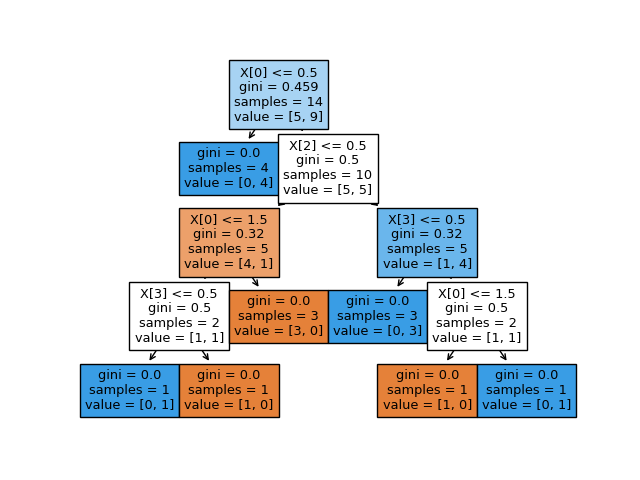
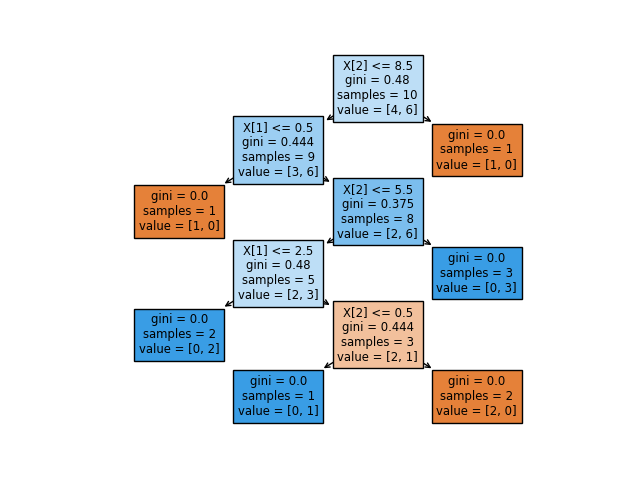
Se ha implementado la clasificación con label encoder

diff --git a/pages/Clasificador_de_Arboles_de_Decision.py b/pages/Clasificador_de_Arboles_de_Decision.py
@@ -1,4 +1,5 @@
 # Importamos librerías a utilizar en esta aplicación
+from click import confirm
 from matplotlib.pyplot import text
 import streamlit as st
 import pandas as pd
@@ -21,7 +22,6 @@ from IPython.display import Image as PImage
 from subprocess import check_call
 
 ### Definimos las funciones que utilizaremos
-
 
 ## Función que obtiene el archivo e identifica la colección de datos a utilizar
 def procesar_datos():
@@ -56,70 +56,90 @@ def procesar_datos():
     cols_encoded = list()
     dot_code = ''
     if bandera:
-        resultado = st.selectbox('Seleccione la columna que será utilizada como el resultado', data.columns)
-        confirmar_resultado = st.button('Confirmar')
-        
+        name_last_column = str
+        for x in data:
+            name_last_column = str(x)
+
         # Si se presiona el botón de confirmación, se inicia el análisis
-        if confirmar_resultado:
-            col_resultado = np.asarray(data[resultado]).reshape(-1,1)
-            for x in data:
-                if str(resultado) != str(x):
-                    col = np.asarray(data[str(x)]).reshape(-1,1)
-                    cols_evaluar.append(col)
-            
-            # Creamos un label enconder
-            le = preprocessing.LabelEncoder()
-            
-            # Convertimos los strings de los arreglos en números
-            for i in range(len(cols_evaluar)):
-                cols_encoded.append(le.fit_transform(cols_evaluar[i]))
+        #if confirmar_resultado:
+        col_resultado = np.asarray(data[name_last_column]).reshape(-1,1)
+        for x in data:
+            if str(name_last_column) != str(x):
+                col = np.asarray(data[str(x)]).reshape(-1,1)
+                cols_evaluar.append(col)
+        
+        # Creamos un label enconder
+        le = preprocessing.LabelEncoder()
+        
+        # Convertimos los strings de los arreglos en números
+        for i in range(len(cols_evaluar)):
+            cols_encoded.append(le.fit_transform(cols_evaluar[i]))
 
-            resultado_encoded = le.fit_transform(col_resultado)
+        resultado_encoded = le.fit_transform(col_resultado)
 
-            # Combinamos los atributos en una lista de tuplas
-            tuples = []
-            for x in range(len(cols_encoded[0])):
-                fila = []
-                for i in range(len(cols_encoded)):
-                    fila.append(cols_encoded[i][x])
-                tuples.append(tuple(fila))
+        # Combinamos los atributos en una lista de tuplas
+        tuples = []
+        for x in range(len(cols_encoded[0])):
+            fila = []
+            for i in range(len(cols_encoded)):
+                fila.append(cols_encoded[i][x])
+            tuples.append(tuple(fila))
 
-            # Realizamos el modelo
-            clf = DecisionTreeClassifier().fit(tuples,resultado_encoded)
-            plot_tree(clf, filled=True)
-            plt.savefig('clasiArbol.png')
+        # Realizamos el modelo
+        clf = DecisionTreeClassifier().fit(tuples,resultado_encoded)
+        plot_tree(clf, filled=True)
+        plt.savefig('clasiArbol.png')
 
-            # exportar el modelo a archivo .dot
-            # with open(r"clasiArbol.dot", 'w') as f:
-            #    f = tree.export_graphviz(clf,
-            #                            out_file=f,
-            #                            max_depth = 7,
-            #                            impurity = True,
-            #                            #feature_names = list(tuples.drop(['top'], axis=1)),
-            #                            #class_names = ['No', 'N1 Billboard'],
-            #                            rounded = True,
-            #                            filled= True 
-            #                            )
-            # dot_code = f
-            
+        # exportar el modelo a archivo .dot
+        # with open(r"clasiArbol.dot", 'w') as f:
+        #    f = tree.export_graphviz(clf,
+        #                            out_file=f,
+        #                            max_depth = 7,
+        #                            impurity = True,
+        #                            #feature_names = list(tuples.drop(['top'], axis=1)),
+        #                            #class_names = ['No', 'N1 Billboard'],
+        #                            rounded = True,
+        #                            filled= True 
+        #                            )
+        # dot_code = f
+        
 
-            # Convertir el archivo .dot a png para poder visualizarlo
-            # check_call(['dot','-Tpng',r'clasiArbol.dot','-o',r'clasiArbol.png'])
-            # PImage("clasiArbol.png")
+        # Convertir el archivo .dot a png para poder visualizarlo
+        # check_call(['dot','-Tpng',r'clasiArbol.dot','-o',r'clasiArbol.png'])
+        # PImage("clasiArbol.png")
 
-            #for i in range(len(cols_evaluar)):
-            #    st.text(cols_evaluar[i])
+        #for i in range(len(cols_evaluar)):
+        #    st.text(cols_evaluar[i])
 
+        st.text('Realizar una predicción. Ingrese los datos necesarios para predecir:')
+        prediccion = st.text_input('Ingrese los datos códificados separados por coma (puede consultar la tabla)')
+        btn_predecir = st.button('Realizar Predicción')
+        
 
         with st.expander('Tabla de Datos'):
-            st.write(data)
-            if confirmar_resultado:
-                st.text(tuples)
+            col_tabla, col_encoded, col_res = st.columns(3)
+            with col_tabla:
+                st.text('Tabla')
+                st.write(data)
             
-        if confirmar_resultado:
-            with st.expander('Clasificador de Arboles de Decisión:'):
-                image = Image.open('clasiArbol.png')
-                st.image(image)
+            with col_encoded:
+                st.text('Datos Encoded')
+                st.dataframe(tuples)
+            
+            with col_res:
+                st.text('Resultado Encoded')
+                st.dataframe(resultado_encoded)
+        
+        with st.expander('Clasificador de Arboles de Decisión:'):
+            image = Image.open('clasiArbol.png')
+            st.image(image)
+
+        if btn_predecir:
+            st.text('La predicción para la entrada: ' + prediccion + ' es:')
+            prediction = [float(i) for i in prediccion.split(',')]
+            predicted = clf.predict([prediction])
+            st.text(predicted)
+
 
 
 ## Inicio de la ejecución

diff --git a/pages/Clasificador_Gaussiano.py b/pages/Clasificador_Gaussiano.py
@@ -1,9 +1,124 @@
 # Importamos librerías a utilizar en esta aplicación
-from matplotlib.pyplot import text
 import streamlit as st
 import pandas as pd
 import numpy as np
 import matplotlib.pyplot as plt
+from sklearn.tree import DecisionTreeClassifier, plot_tree
+from sklearn import preprocessing
+from sklearn import tree
+from sklearn.naive_bayes import GaussianNB
 import os
-from sklearn import linear_model
-from PIL import Image
+from PIL import Image, ImageDraw, ImageFont
+from IPython.display import Image as PImage
+from subprocess import check_call
+
+### Definimos las funciones que utilizaremos
+
+
+## Función que obtiene el archivo e identifica la colección de datos a utilizar
+def procesar_datos():
+    if upload_file is not None:
+        # Obtenemos la extensión del archivo
+        split_tup = os.path.splitext(upload_file.name)
+        nombre_archivo = split_tup[0]
+        extension = split_tup[1]
+        
+        # Cramos la data
+        bandera = False
+        data:any
+
+        # Identificamos la extensión del archivo
+        if extension == '.csv':
+            bandera = True
+            data = pd.read_csv(upload_file)
+        elif extension == '.json':
+            bandera = True
+            data = pd.read_json(upload_file)
+        elif extension == '.xlsx' or extension == '.xls':
+            bandera = True
+            data = pd.read_excel(upload_file)
+        else:
+            st.text('Se insertó un archivo inválido')
+    else:
+        st.text('Para realizar un análisis, primero debe seleccionar un archivo')
+    
+
+    col_resultado = any
+    cols_evaluar = list()
+    cols_encoded = list()
+    dot_code = ''
+    if bandera:
+        resultado = st.selectbox('Seleccione la columna que será utilizada como el resultado', data.columns)
+        confirmar_resultado = st.button('Confirmar')
+        
+        # Si se presiona el botón de confirmación, se inicia el análisis
+        if confirmar_resultado:
+            col_resultado = np.asarray(data[resultado]).reshape(-1,1)
+            for x in data:
+                if str(resultado) != str(x):
+                    col = np.asarray(data[str(x)]).reshape(-1,1)
+                    cols_evaluar.append(col)
+            
+            # Creamos un label enconder
+            le = preprocessing.LabelEncoder()
+            
+            # Convertimos los strings de los arreglos en números
+            for i in range(len(cols_evaluar)):
+                cols_encoded.append(le.fit_transform(cols_evaluar[i]))
+
+            resultado_encoded = le.fit_transform(col_resultado)
+
+            # Combinamos los atributos en una lista de tuplas
+            tuples = []
+            for x in range(len(cols_encoded[0])):
+                fila = []
+                for i in range(len(cols_encoded)):
+                    fila.append(cols_encoded[i][x])
+                tuples.append(tuple(fila))
+
+            # Realizamos el modelo
+            clf = GaussianNB().fit(tuples,resultado_encoded)
+            # GRAFICA
+            plt.savefig('clasiArbol.png')
+
+            # exportar el modelo a archivo .dot
+            # with open(r"clasiArbol.dot", 'w') as f:
+            #    f = tree.export_graphviz(clf,
+            #                            out_file=f,
+            #                            max_depth = 7,
+            #                            impurity = True,
+            #                            #feature_names = list(tuples.drop(['top'], axis=1)),
+            #                            #class_names = ['No', 'N1 Billboard'],
+            #                            rounded = True,
+            #                            filled= True 
+            #                            )
+            # dot_code = f
+            
+
+            # Convertir el archivo .dot a png para poder visualizarlo
+            # check_call(['dot','-Tpng',r'clasiArbol.dot','-o',r'clasiArbol.png'])
+            # PImage("clasiArbol.png")
+
+            #for i in range(len(cols_evaluar)):
+            #    st.text(cols_evaluar[i])
+
+
+        with st.expander('Tabla de Datos'):
+            st.write(data)
+            if confirmar_resultado:
+                st.text(tuples)
+            
+        if confirmar_resultado:
+            with st.expander('Clasificador de Arboles de Decisión:'):
+                image = Image.open('clasiArbol.png')
+                st.image(image)
+
+
+## Inicio de la ejecución
+# Colocamos el título de la sección
+st.title('Clasificador: Arboles de Decisión')
+# Agregamos el manejador de archivos
+upload_file = st.file_uploader('Seleccione un Archivo: ', type=['csv','json','xlsx','xls'])
+
+if upload_file is not None:
+    procesar_datos()
